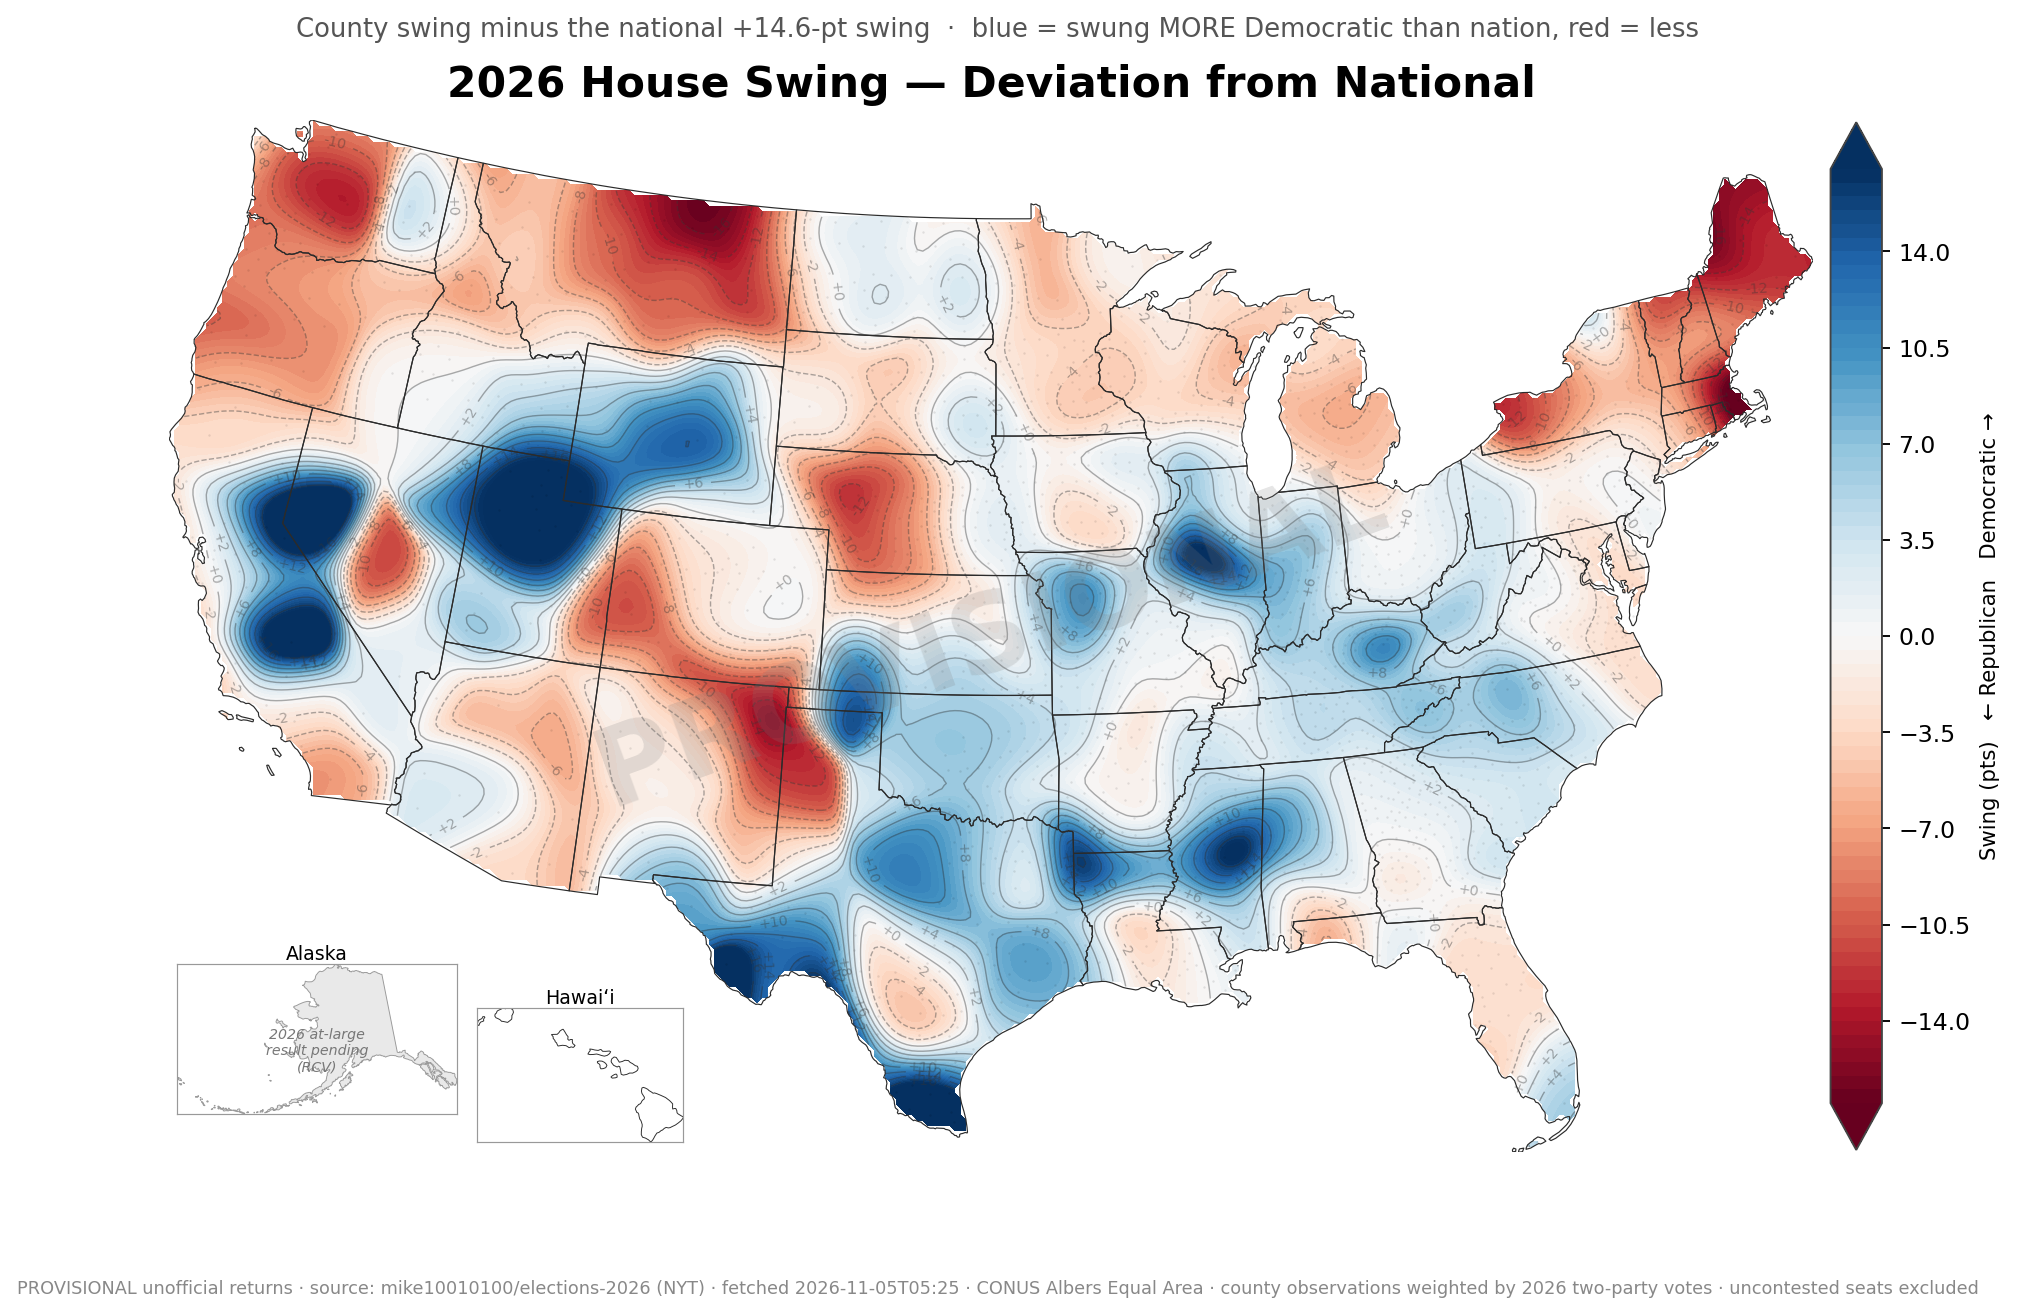
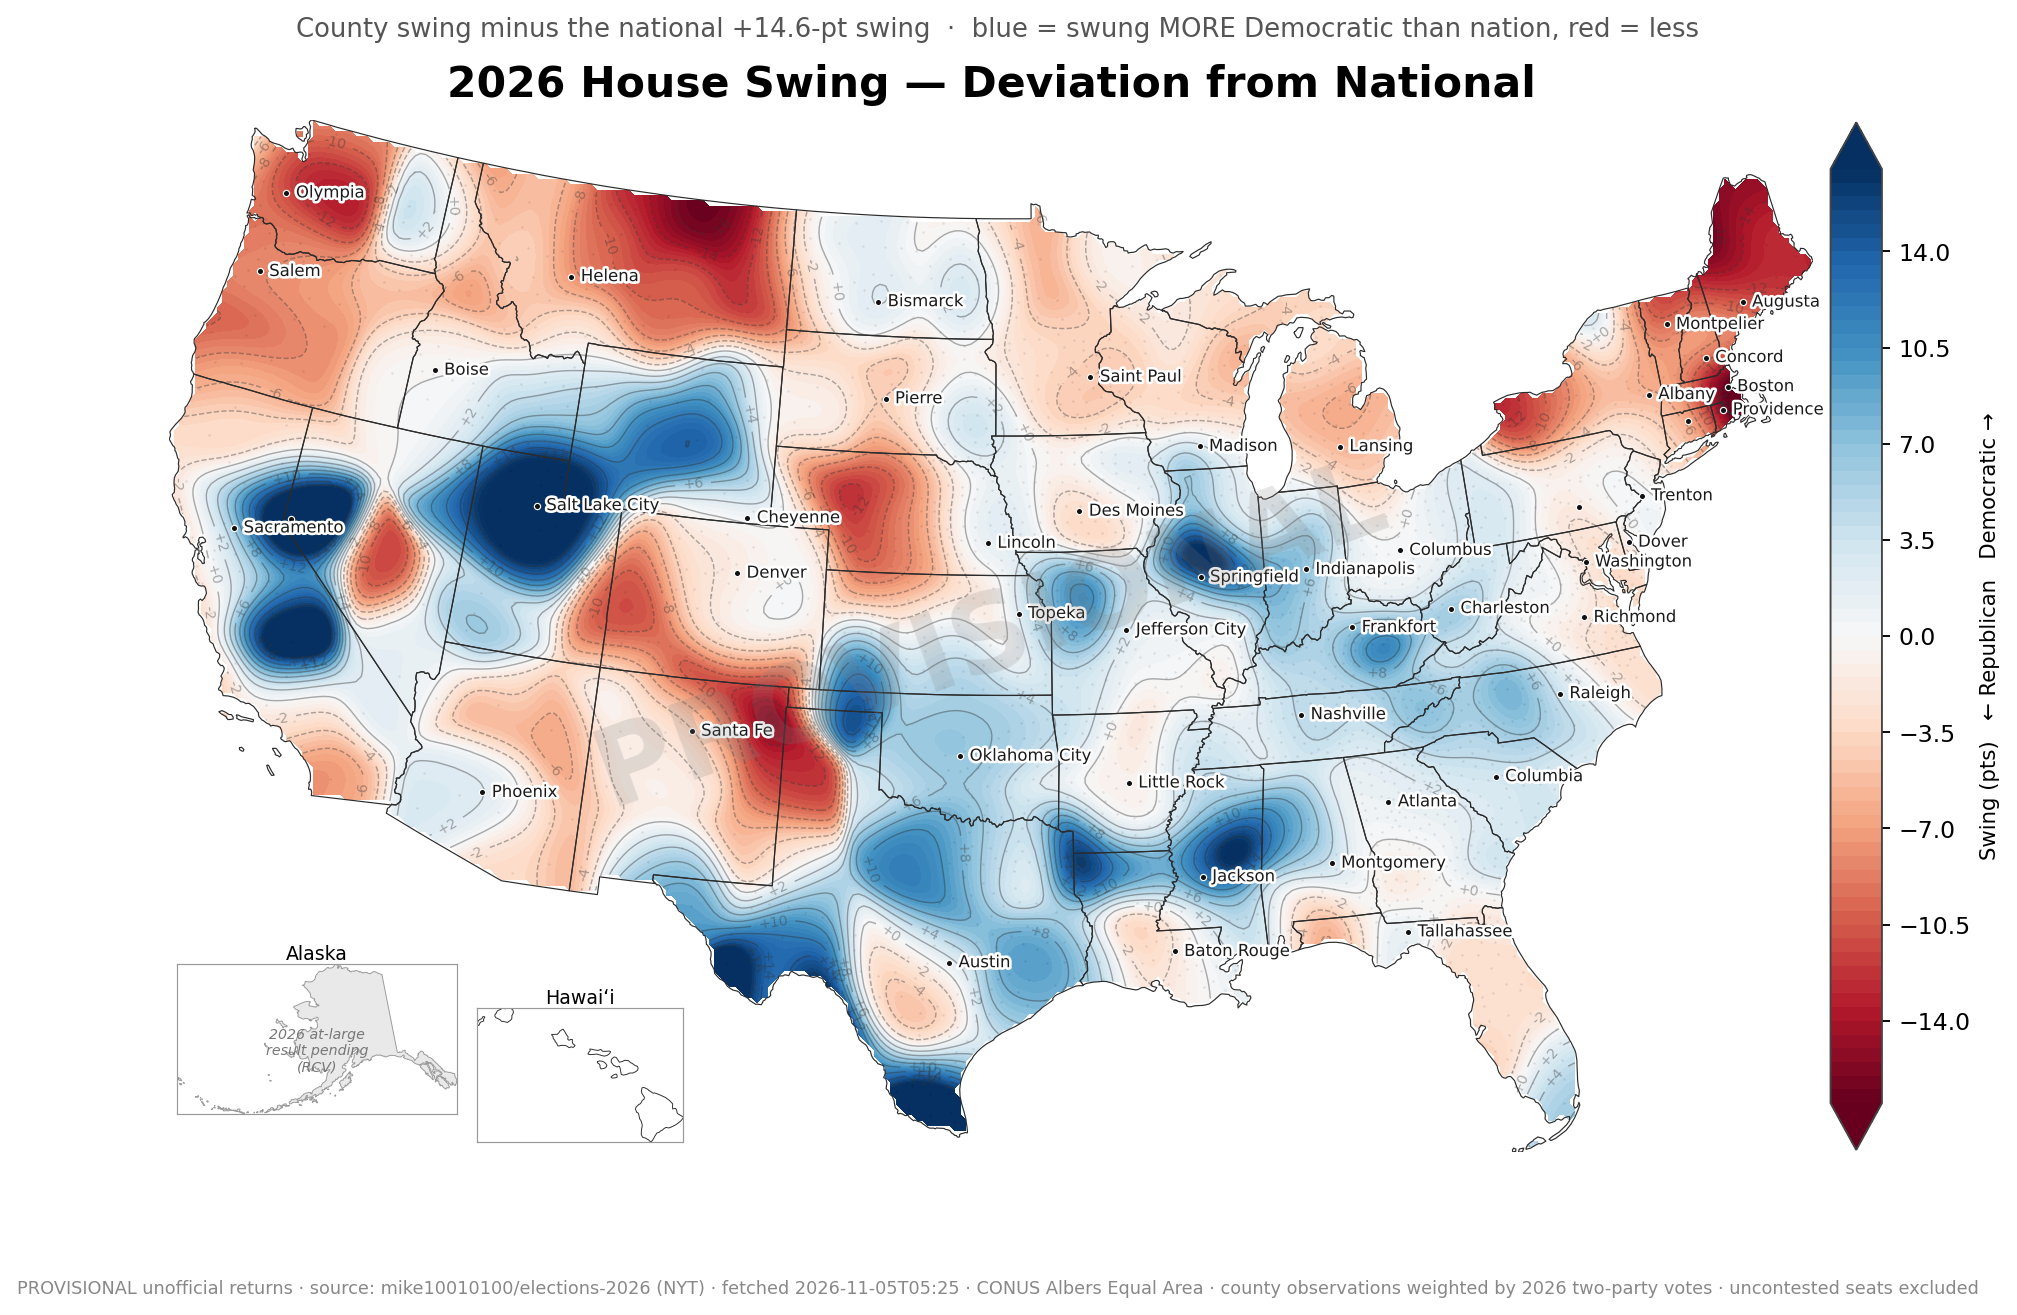
Add state capital labels (static maps + interactive)
- capitals.py: contiguous state capitals + DC with coords and city population.
- Static maps: haloed capital dots/labels, greedy placement by population so
  crowded regions keep the larger cities.
- Web app: constant-size capital overlay repositioned on zoom, same greedy
  placement (more capitals revealed as you zoom in), with a Capitals toggle.

diff --git a/web/app.js b/web/app.js
@@ -6,13 +6,14 @@
 'use strict';
 
 const DATA = 'data/';
-const state = { meta:null, grids:{}, states:null, land:null, counties:null,
-                baseline:null, mode:'abs', lod:null, quad:null, loading:{} };
+const state = { meta:null, grids:{}, states:null, land:null, counties:null, capitals:null,
+                baseline:null, mode:'abs', lod:null, quad:null, loading:{}, showCaps:true };
 
 const svg = d3.select('#map');
 const gZoom = svg.append('g');
 const gContour = gZoom.append('g');
 const gStates = gZoom.append('g');
+const gCaps = svg.append('g').style('pointer-events', 'none');   // overlay, constant screen size
 const tip = d3.select('#tip');
 
 let MINX=0, MINY=0, MAXX=0, MAXY=0, S=1, OFFX=0, OFFY=0;
@@ -43,9 +44,10 @@ async function load(){
   const meta = await d3.json(DATA + 'meta.json');
   state.meta = meta;
   [MINX, MINY, MAXX, MAXY] = meta.bounds;
-  const [states, land, counties] = await Promise.all([
-    d3.json(DATA + 'states.json'), d3.json(DATA + 'land.json'), d3.json(DATA + 'counties.json')]);
-  state.states = states; state.land = land; state.counties = counties;
+  const [states, land, counties, capitals] = await Promise.all([
+    d3.json(DATA + 'states.json'), d3.json(DATA + 'land.json'),
+    d3.json(DATA + 'counties.json'), d3.json(DATA + 'capitals.json')]);
+  state.states = states; state.land = land; state.counties = counties; state.capitals = capitals;
   const cols = Object.keys(meta.baselines);
   state.baseline = cols[0];
   state.lod = meta.lods[0];
@@ -65,6 +67,7 @@ async function load(){
   state.quad = d3.quadtree().x(d => d.x).y(d => d.y).addAll(counties);
 
   d3.select('#reset').on('click', () => svg.transition().duration(400).call(zoom.transform, d3.zoomIdentity));
+  d3.select('#capToggle').on('change', function(){ state.showCaps = this.checked; positionCapitals(); });
   d3.select('#footer').html(
     `Source: <a href="https://github.com/mike10010100/elections-2026" target="_blank" rel="noopener">mike10010100/elections-2026</a>
      (compiles NYT returns) · <b>PROVISIONAL, pre-certification</b> · fetched ${meta.fetched_at.slice(0,16)} ·
@@ -117,10 +120,31 @@ function drawLegend(vmax, color, title){
       .call(g => g.select('.domain').remove()).selectAll('text').attr('font-size', 9);
 }
 
+function positionCapitals(){
+  if (!state.capitals || !MPATH){ gCaps.selectAll('*').remove(); return; }
+  const t = d3.zoomTransform(svg.node());
+  const W = svg.node().clientWidth, H = svg.node().clientHeight;
+  const pts = state.showCaps ? state.capitals
+      .map(c => ({ ...c, X: t.applyX(sx(c.x)), Y: t.applyY(sy(c.y)) }))
+      .filter(c => c.X > -20 && c.X < W+20 && c.Y > -10 && c.Y < H+10) : [];
+  gCaps.selectAll('circle').data(pts, d => d.n).join('circle')
+      .attr('class', 'cap-dot').attr('cx', d => d.X).attr('cy', d => d.Y).attr('r', 2.6);
+  // greedy label placement by population; crowded areas keep the larger cities
+  const placed = [], show = [];
+  for (const c of [...pts].sort((a, b) => b.p - a.p)){
+    const w = c.n.length*6 + 8, box = [c.X+5, c.Y-6, c.X+5+w, c.Y+6];
+    if (placed.some(p => !(box[2]<p[0] || box[0]>p[2] || box[3]<p[1] || box[1]>p[3]))) continue;
+    placed.push(box); show.push(c);
+  }
+  gCaps.selectAll('text').data(show, d => d.n).join('text')
+      .attr('class', 'cap-label').attr('x', d => d.X+5).attr('y', d => d.Y+3).text(d => d.n);
+}
+
 const zoom = d3.zoom().scaleExtent([1, 60]).on('zoom', async e => {
   gZoom.attr('transform', e.transform);
   gContour.selectAll('path').attr('stroke-width', 0.3/e.transform.k);
   gStates.selectAll('path').attr('stroke-width', 0.6/e.transform.k);
+  positionCapitals();
   const want = pickLOD(e.transform.k);
   if (want !== state.lod){
     state.lod = want;
@@ -155,6 +179,7 @@ function resize(){
   svg.select('#landclip path').attr('d', MPATH(state.land));
   svg.call(zoom.transform, d3.zoomIdentity);
   render();
+  positionCapitals();
 }
 
 load().catch(err => { console.error(err); document.getElementById('footer').textContent = 'Failed to load data: ' + err; });

diff --git a/web/index.html b/web/index.html
@@ -36,6 +36,10 @@
   svg{width:100%;height:100%;display:block;cursor:grab}
   svg.grabbing{cursor:grabbing}
   .state{fill:none;stroke:#333;stroke-width:.6px;vector-effect:non-scaling-stroke}
+  .cap-dot{fill:#111;stroke:#fff;stroke-width:1}
+  .cap-label{font-size:11px;fill:#1a1a1a;paint-order:stroke;stroke:#fff;stroke-width:3px;
+    stroke-linejoin:round;pointer-events:none}
+  .chk{display:flex;align-items:center;gap:5px;font-size:13px;cursor:pointer;user-select:none}
   .tip{position:absolute;pointer-events:none;background:#fff;border:1px solid var(--line);
     border-radius:6px;padding:6px 9px;font-size:12px;box-shadow:0 2px 8px #0002;opacity:0;transition:opacity .08s}
   .tip b{font-size:12.5px}
@@ -68,6 +72,10 @@
   <div class="ctl">
     <label>&nbsp;</label>
     <button id="reset">Reset zoom</button>
+  </div>
+  <div class="ctl">
+    <label>Labels</label>
+    <label class="chk"><input type="checkbox" id="capToggle" checked> Capitals</label>
   </div>
   <div id="legend">
     <span class="legend-title" id="legend-title"></span>

diff --git a/src/capitals.py b/src/capitals.py
@@ -1,0 +1,58 @@
+"""
+State capitals (contiguous US) + Washington, D.C., with coordinates and an
+approximate city population used only to prioritise which labels show when
+space is tight. Coordinates are WGS84/NAD83 lon/lat (city hall vicinity).
+Alaska (Juneau) and Hawaii (Honolulu) are omitted from the CONUS surface.
+"""
+# (name, state, lat, lon, approx_city_pop_thousands)
+CAPITALS = [
+    ("Montgomery", "AL", 32.377, -86.300, 195),
+    ("Phoenix", "AZ", 33.448, -112.074, 1644),
+    ("Little Rock", "AR", 34.746, -92.289, 202),
+    ("Sacramento", "CA", 38.576, -121.493, 525),
+    ("Denver", "CO", 39.739, -104.990, 716),
+    ("Hartford", "CT", 41.764, -72.682, 121),
+    ("Dover", "DE", 39.158, -75.524, 39),
+    ("Tallahassee", "FL", 30.438, -84.281, 196),
+    ("Atlanta", "GA", 33.749, -84.388, 499),
+    ("Boise", "ID", 43.617, -116.200, 237),
+    ("Springfield", "IL", 39.798, -89.654, 114),
+    ("Indianapolis", "IN", 39.768, -86.158, 887),
+    ("Des Moines", "IA", 41.591, -93.604, 214),
+    ("Topeka", "KS", 39.048, -95.678, 126),
+    ("Frankfort", "KY", 38.197, -84.863, 28),
+    ("Baton Rouge", "LA", 30.458, -91.140, 220),
+    ("Augusta", "ME", 44.307, -69.782, 19),
+    ("Annapolis", "MD", 38.979, -76.492, 40),
+    ("Boston", "MA", 42.358, -71.064, 654),
+    ("Lansing", "MI", 42.733, -84.555, 112),
+    ("Saint Paul", "MN", 44.954, -93.090, 311),
+    ("Jackson", "MS", 32.299, -90.185, 150),
+    ("Jefferson City", "MO", 38.579, -92.173, 43),
+    ("Helena", "MT", 46.589, -112.039, 34),
+    ("Lincoln", "NE", 40.808, -96.700, 295),
+    ("Carson City", "NV", 39.164, -119.766, 59),
+    ("Concord", "NH", 43.207, -71.538, 44),
+    ("Trenton", "NJ", 40.220, -74.770, 90),
+    ("Santa Fe", "NM", 35.687, -105.938, 89),
+    ("Albany", "NY", 42.652, -73.757, 99),
+    ("Raleigh", "NC", 35.780, -78.639, 470),
+    ("Bismarck", "ND", 46.808, -100.784, 74),
+    ("Columbus", "OH", 39.961, -82.999, 906),
+    ("Oklahoma City", "OK", 35.468, -97.516, 695),
+    ("Salem", "OR", 44.943, -123.035, 177),
+    ("Harrisburg", "PA", 40.264, -76.883, 50),
+    ("Providence", "RI", 41.824, -71.413, 190),
+    ("Columbia", "SC", 34.000, -81.035, 137),
+    ("Pierre", "SD", 44.368, -100.351, 14),
+    ("Nashville", "TN", 36.163, -86.781, 692),
+    ("Austin", "TX", 30.267, -97.743, 975),
+    ("Salt Lake City", "UT", 40.761, -111.891, 200),
+    ("Montpelier", "VT", 44.260, -72.576, 8),
+    ("Richmond", "VA", 37.541, -77.436, 226),
+    ("Olympia", "WA", 47.038, -122.901, 55),
+    ("Charleston", "WV", 38.336, -81.612, 48),
+    ("Madison", "WI", 43.074, -89.384, 269),
+    ("Cheyenne", "WY", 41.140, -104.820, 65),
+    ("Washington", "DC", 38.895, -77.037, 702),
+]

diff --git a/src/render.py b/src/render.py
@@ -18,9 +18,32 @@ import matplotlib
 matplotlib.use("Agg")
 import matplotlib.pyplot as plt
 from matplotlib.colors import TwoSlopeNorm
+from matplotlib import patheffects as pe
+from pyproj import Transformer
 
 import interpolate as I
 import insets as INS
+import capitals as CAP
+
+
+def draw_capitals(ax):
+    """Capital dots (all) + labels placed greedily by population so crowded
+    regions keep only the larger cities."""
+    tr = Transformer.from_crs(C.CRS_GEOGRAPHIC, C.CRS_WORKING, always_xy=True)
+    caps = [(n, *tr.transform(lon, lat), pop) for n, s, lat, lon, pop in CAP.CAPITALS]
+    ax.scatter([c[1] for c in caps], [c[2] for c in caps], s=7,
+               facecolor="#111", edgecolor="white", linewidths=0.5, zorder=20)
+    halo = [pe.withStroke(linewidth=2.2, foreground="white")]
+    placed = []
+    for n, x, y, pop in sorted(caps, key=lambda c: -c[3]):
+        dx, dy = ax.transData.transform((x, y))
+        w = len(n) * 7 * 0.55 + 6
+        box = (dx + 4, dy - 5, dx + 4 + w, dy + 5)
+        if any(not (box[2] < p[0] or box[0] > p[2] or box[3] < p[1] or box[1] > p[3]) for p in placed):
+            continue
+        placed.append(box)
+        ax.annotate(n, (x, y), xytext=(4, 0), textcoords="offset points", fontsize=7,
+                    va="center", ha="left", color="#1a1a1a", zorder=21, path_effects=halo)
 
 plt.rcParams.update({"font.family": "DejaVu Sans", "font.size": 10,
                      "axes.edgecolor": "#444444", "figure.facecolor": "white"})
@@ -95,6 +118,7 @@ def render_hero(stations, land, states, value_col, method, out_png, title,
     if show_dots:
         s = stations.dropna(subset=[value_col])
         ax.scatter(s["x"], s["y"], s=1.0, c="#00000018", linewidths=0)
+    draw_capitals(ax)
     if stations_all is not None:
         ax_ak = ax.inset_axes([0.005, 0.01, 0.17, 0.20])
         _draw_ak_inset(ax_ak, INS.ak_geometry())

diff --git a/src/export_web.py b/src/export_web.py
@@ -15,8 +15,10 @@ import numpy as np
 import pandas as pd
 import geopandas as gpd
 import shapely
+from pyproj import Transformer
 
 import interpolate as I
+import capitals as CAP
 
 WEB_DATA = C.ROOT / "web" / "data"
 WEB_DATA.mkdir(parents=True, exist_ok=True)
@@ -91,6 +93,15 @@ def main():
                  "v": {c: (None if pd.isna(r[c]) else round(float(r[c]), 1)) for c in BASELINES}}
                 for _, r in stations.iterrows()]
     json.dump(counties, open(WEB_DATA / "counties.json", "w"))
+
+    # State capitals (+ DC), projected to the working CRS (metres).
+    tr = Transformer.from_crs(C.CRS_GEOGRAPHIC, C.CRS_WORKING, always_xy=True)
+    caps = []
+    for name, st, lat, lon, pop in CAP.CAPITALS:
+        x, y = tr.transform(lon, lat)
+        caps.append({"n": name, "s": st, "x": round(x), "y": round(y), "p": pop})
+    json.dump(caps, open(WEB_DATA / "capitals.json", "w"))
+
     json.dump(meta, open(WEB_DATA / "meta.json", "w"), indent=1)
 
     sz = sum(f.stat().st_size for f in WEB_DATA.glob("*.json")) / 1e6
